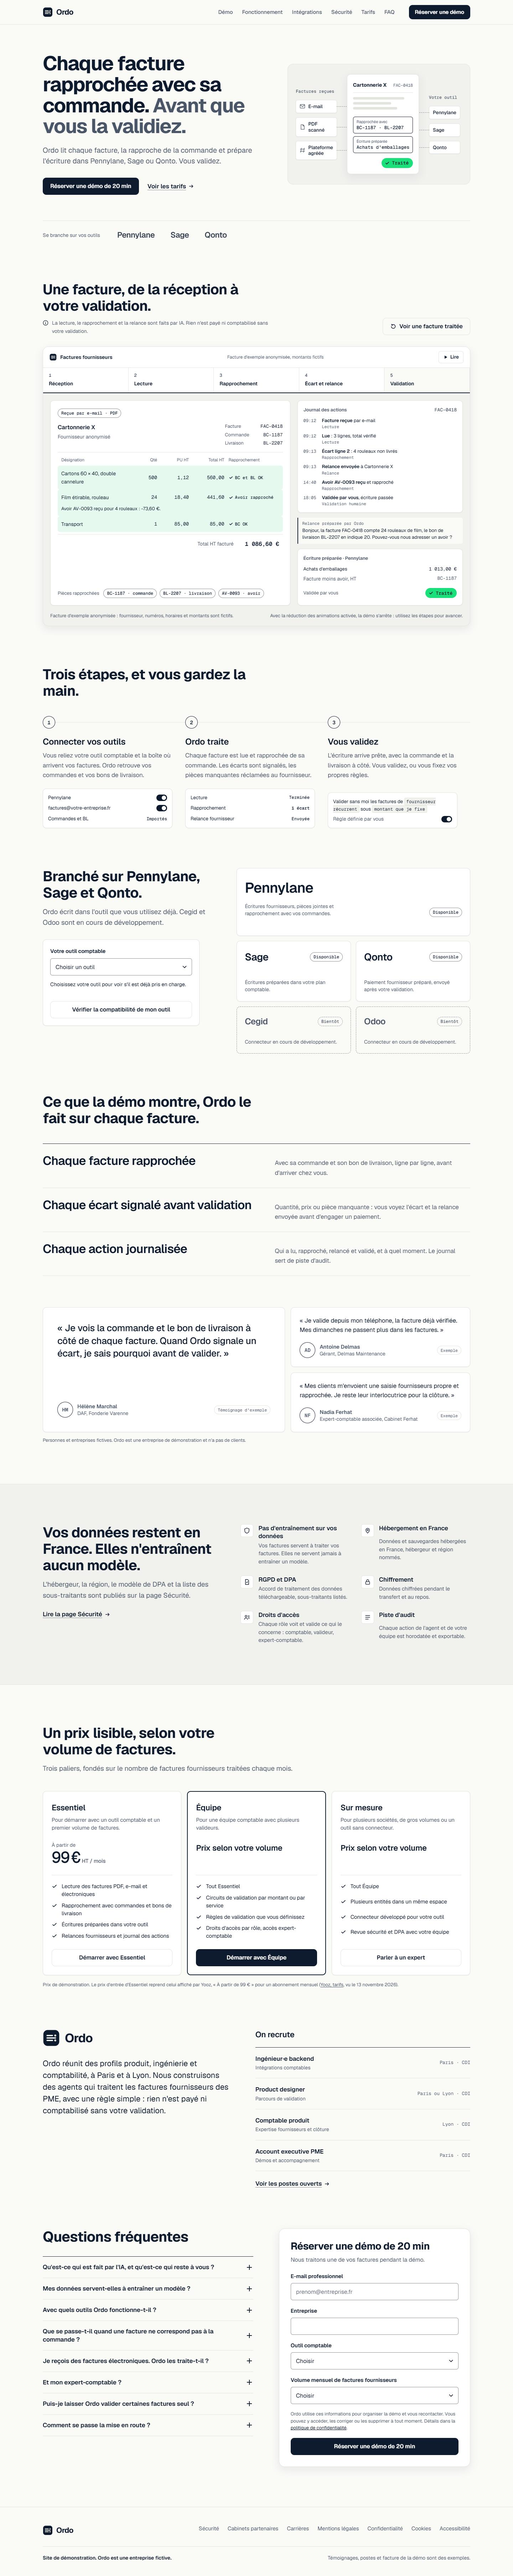
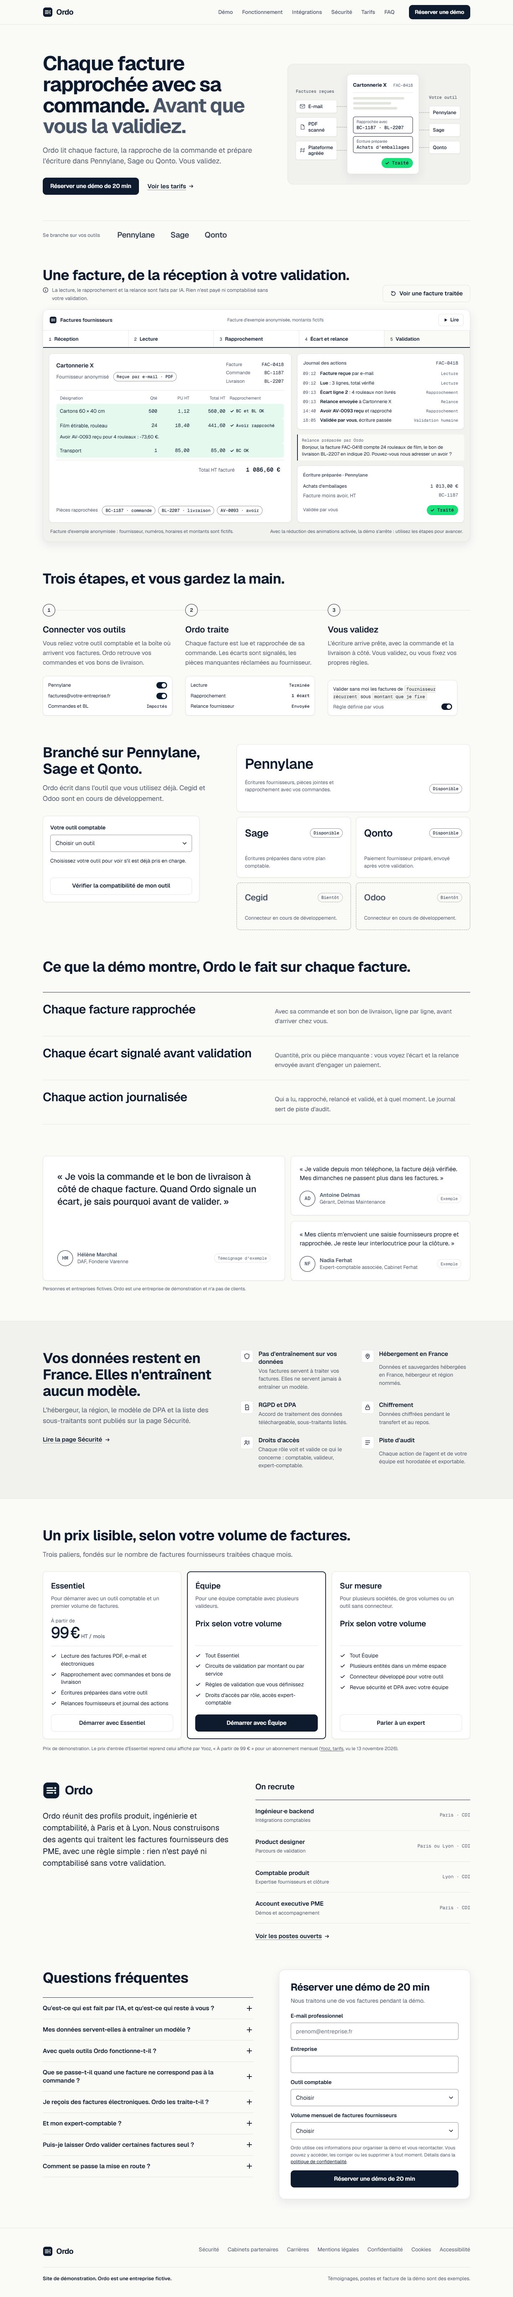
Fit each ia-b2b section in the viewport

diff --git a/vitrine-ia-b2b/index.html b/vitrine-ia-b2b/index.html
@@ -64,12 +64,12 @@
   --slow: 400ms;
 
   --gutter: clamp(16px, 4vw, 40px);
-  --section: clamp(64px, 8vw, 112px);
+  --section: clamp(56px, 6vw, 80px);
   --max: 1200px;
 }
 
 *, *::before, *::after { box-sizing: border-box; }
-html { -webkit-text-size-adjust: 100%; scroll-behavior: smooth; scroll-padding-top: 80px; }
+html { -webkit-text-size-adjust: 100%; scroll-behavior: smooth; scroll-padding-top: 69px; }
 body {
   margin: 0;
   background: var(--bg);
@@ -91,7 +91,7 @@ button, input, select { font: inherit; color: inherit; }
 .sr-only { position: absolute; width: 1px; height: 1px; padding: 0; margin: -1px; overflow: hidden; clip: rect(0 0 0 0); white-space: nowrap; border: 0; }
 .wrap { width: 100%; max-width: calc(var(--max) + 2 * var(--gutter)); margin: 0 auto; padding: 0 var(--gutter); }
 .section { padding: var(--section) 0; }
-.h2 { font-size: clamp(30px, 3.4vw, 40px); line-height: 1.15; font-weight: 650; letter-spacing: -0.02em; max-width: 22ch; }
+.h2 { font-size: clamp(30px, 3.4vw, 40px); line-height: 1.15; font-weight: 650; letter-spacing: -0.02em; max-width: 38ch; }
 .lead { font-size: clamp(17px, 1.4vw, 19px); color: var(--text-2); max-width: 60ch; margin-top: 16px; }
 .small { font-size: 14px; line-height: 1.45; color: var(--text-2); }
 .src { font-size: 13px; line-height: 1.45; color: var(--text-2); }
@@ -151,7 +151,7 @@ button, input, select { font: inherit; color: inherit; }
 .mobile-menu { display: none; }
 
 /* Hero */
-.hero { padding: clamp(40px, 6vw, 80px) 0 0; }
+.hero { padding: clamp(40px, 6vw, 80px) 0 24px; }
 .hero-grid { display: grid; grid-template-columns: minmax(0, 1.2fr) minmax(0, 1fr); gap: clamp(32px, 5vw, 72px); align-items: center; }
 .hero h1 { font-size: clamp(38px, 3.9vw, 56px); line-height: 1.05; font-weight: 700; letter-spacing: -0.035em; }
 .hero h1 span { color: var(--text-2); }
@@ -183,11 +183,11 @@ button, input, select { font: inherit; color: inherit; }
 .wordmark { font-size: 22px; font-weight: 600; letter-spacing: -0.02em; color: var(--ink); opacity: .82; }
 
 /* Demo */
-.demo-sec { padding-top: var(--section); }
-.demo-intro { display: grid; gap: 0; margin-bottom: 32px; }
+.demo-sec { padding-top: clamp(40px, 4vw, 48px); }
+.demo-intro { display: grid; gap: 0; margin-bottom: 20px; }
 .demo-top { display: flex; flex-wrap: wrap; align-items: end; justify-content: space-between; gap: 20px; }
 .demo-actions { display: flex; flex-wrap: wrap; gap: 10px; }
-.ai-note { margin-top: 14px; display: flex; gap: 10px; align-items: flex-start; font-size: 14px; color: var(--text-2); max-width: 70ch; }
+.ai-note { margin-top: 8px; display: flex; gap: 10px; align-items: flex-start; font-size: 14px; color: var(--text-2); max-width: 70ch; }
 .ai-note svg { width: 18px; height: 18px; margin-top: 2px; color: var(--ink); }
 
 .demo { background: var(--surface); border: 1px solid var(--line); border-radius: var(--r-lg); box-shadow: var(--sh-md); overflow: hidden; }
@@ -200,7 +200,7 @@ button, input, select { font: inherit; color: inherit; }
 .ctrl svg { width: 14px; height: 14px; }
 
 .steps-rail { display: grid; grid-template-columns: repeat(5, 1fr); border-bottom: 1px solid var(--line); background: var(--white); position: relative; }
-.steps-rail button { all: unset; box-sizing: border-box; cursor: pointer; padding: 12px 16px 14px; display: grid; gap: 2px; border-right: 1px solid var(--line); color: var(--text-2); transition: color var(--base) var(--ease), background-color var(--base) var(--ease); }
+.steps-rail button { all: unset; box-sizing: border-box; cursor: pointer; padding: 12px 16px; display: flex; align-items: baseline; gap: 8px; border-right: 1px solid var(--line); color: var(--text-2); transition: color var(--base) var(--ease), background-color var(--base) var(--ease); }
 .steps-rail button:last-child { border-right: 0; }
 .steps-rail button:focus-visible { outline: 2px solid var(--ink); outline-offset: -3px; }
 .steps-rail .n { font-family: var(--mono); font-size: 12px; }
@@ -210,9 +210,9 @@ button, input, select { font: inherit; color: inherit; }
 .progress { position: absolute; left: 0; right: 0; bottom: -1px; height: 2px; background: transparent; }
 .progress i { display: block; height: 100%; background: var(--ink); transform-origin: left; transform: scaleX(1); }
 
-.demo-body { display: grid; grid-template-columns: minmax(0, 1.45fr) minmax(0, 1fr); gap: 20px; padding: 20px; }
+.demo-body { display: grid; grid-template-columns: minmax(0, 1.45fr) minmax(0, 1fr); gap: 16px; padding: 16px; }
 .inv { background: var(--white); border: 1px solid var(--line); border-radius: var(--r-md); padding: 20px; box-shadow: var(--sh-sm); position: relative; display: flex; flex-direction: column; }
-.inv-docs { margin-top: auto; padding-top: 20px; display: flex; flex-wrap: wrap; align-items: center; gap: 8px; }
+.inv-docs { margin-top: auto; padding-top: 14px; display: flex; flex-wrap: wrap; align-items: center; gap: 8px; }
 .inv-docs > span:first-child { font-size: 13px; color: var(--text-2); margin-right: 4px; }
 .inv-docs .tag { opacity: 0; transition: opacity var(--slow) var(--ease); }
 .inv-docs .tag.on { opacity: 1; }
@@ -230,7 +230,7 @@ button, input, select { font: inherit; color: inherit; }
 .inv-cols, .inv-row { display: grid; grid-template-columns: minmax(0, 2fr) 0.5fr 0.75fr 0.85fr minmax(142px, 1.1fr); gap: 12px; align-items: center; }
 .inv-cols { font-size: 12px; color: var(--text-2); padding: 12px 10px 6px; }
 .inv-cols span:nth-child(n+2):nth-child(-n+4), .inv-row .num { text-align: right; }
-.inv-row { position: relative; padding: 11px 10px; font-size: 14px; border-radius: var(--r-sm); }
+.inv-row { position: relative; padding: 9px 10px; font-size: 14px; border-radius: var(--r-sm); }
 .inv-row .num { font-family: var(--mono); font-variant-numeric: tabular-nums; font-size: 13.5px; }
 .inv-row > *:not(.row-bg) { position: relative; z-index: 1; }
 .row-bg { position: absolute; inset: 0; border-radius: var(--r-sm); opacity: 0; transition: opacity var(--slow) var(--ease); z-index: 0; }
@@ -253,18 +253,18 @@ button, input, select { font: inherit; color: inherit; }
 .inv-total { display: flex; justify-content: flex-end; align-items: baseline; gap: 18px; padding: 14px 10px 0; margin-top: 6px; border-top: 1px solid var(--line); font-size: 14px; }
 .inv-total .cell { min-width: 110px; text-align: right; }
 .inv-total .v { font-family: var(--mono); font-weight: 600; font-size: 16px; font-variant-numeric: tabular-nums; }
-.inv-arrive { margin-bottom: 14px; }
+.who-sub { display: flex; flex-wrap: wrap; align-items: center; gap: 8px 12px; margin-top: 6px; }
 
 .side { display: flex; flex-direction: column; gap: 14px; min-width: 0; }
 .side .entry { margin-top: auto; }
 .panel { background: var(--white); border: 1px solid var(--line); border-radius: var(--r-md); padding: 16px; box-shadow: var(--sh-sm); }
 .panel h3 { font-size: 13px; font-weight: 600; color: var(--text-2); margin-bottom: 10px; display: flex; justify-content: space-between; gap: 8px; }
-.log { display: grid; gap: 9px; }
-.log li { display: grid; grid-template-columns: 44px 1fr; gap: 8px; font-size: 13px; line-height: 1.4; opacity: 0; transform: translateY(4px); transition: opacity var(--slow) var(--ease), transform var(--slow) var(--ease); }
+.log { display: grid; gap: 8px; }
+.log li { display: grid; grid-template-columns: 40px 1fr auto; gap: 8px; font-size: 13px; line-height: 1.4; opacity: 0; transform: translateY(4px); transition: opacity var(--slow) var(--ease), transform var(--slow) var(--ease); }
 .log li.on { opacity: 1; transform: none; }
 .log time { font-family: var(--mono); font-size: 12px; color: var(--text-2); padding-top: 1px; }
 .log b { font-weight: 600; }
-.log .agent { font-family: var(--mono); font-size: 11.5px; color: var(--text-2); display: block; }
+.log .agent { font-family: var(--mono); font-size: 11.5px; color: var(--text-2); padding-top: 1px; text-align: right; }
 .msg { border-left: 2px solid var(--ink); padding: 8px 12px; background: var(--bg); border-radius: 0 var(--r-sm) var(--r-sm) 0; font-size: 13px; line-height: 1.45; opacity: 0; transition: opacity var(--slow) var(--ease); }
 .msg.on { opacity: 1; }
 .msg small { display: block; font-family: var(--mono); font-size: 11.5px; color: var(--text-2); margin-bottom: 2px; }
@@ -351,18 +351,18 @@ button, input, select { font: inherit; color: inherit; }
 .sec-list p { font-size: 15px; color: var(--text-2); line-height: 1.5; }
 
 /* Pricing */
-.price-grid { margin-top: 48px; display: grid; grid-template-columns: repeat(3, minmax(0, 1fr)); gap: 16px; align-items: stretch; }
-.plan { background: var(--white); border: 1px solid var(--line); border-radius: var(--r-md); padding: 28px 24px 24px; display: grid; grid-template-rows: auto auto auto 1fr auto; gap: 0; box-shadow: var(--sh-sm); }
-.plan.featured { border: 2px solid var(--ink); padding: 27px 23px 23px; }
+.price-grid { margin-top: 32px; display: grid; grid-template-columns: repeat(3, minmax(0, 1fr)); gap: 16px; align-items: stretch; }
+.plan { background: var(--white); border: 1px solid var(--line); border-radius: var(--r-md); padding: 22px 22px 20px; display: grid; grid-template-rows: auto auto auto 1fr auto; gap: 0; box-shadow: var(--sh-sm); }
+.plan.featured { border: 2px solid var(--ink); padding: 21px 21px 19px; }
 .plan h3 { font-size: 22px; font-weight: 600; letter-spacing: -0.01em; }
 .plan .for { font-size: 15px; color: var(--text-2); margin-top: 6px; min-height: 48px; line-height: 1.45; }
-.price { margin-top: 22px; padding-bottom: 20px; border-bottom: 1px solid var(--line); min-height: 96px; }
+.price { margin-top: 14px; padding-bottom: 14px; border-bottom: 1px solid var(--line); min-height: 82px; }
 .price .from { font-size: 14px; color: var(--text-2); }
 .price .amt { font-family: var(--mono); font-variant-numeric: tabular-nums; font-size: clamp(36px, 3.4vw, 44px); font-weight: 500; line-height: 1.05; letter-spacing: -0.03em; }
 .price .amt .cur { margin-left: .12em; }
 .price .amt small { font-family: var(--sans); font-size: 15px; font-weight: 500; letter-spacing: 0; color: var(--text-2); margin-left: 4px; }
 .price .vol { font-size: 22px; font-weight: 600; line-height: 1.25; letter-spacing: -0.01em; padding-top: 6px; }
-.incl { display: grid; gap: 10px; padding: 20px 0 26px; font-size: 15px; line-height: 1.45; }
+.incl { display: grid; align-content: start; gap: 8px; padding: 16px 0 20px; font-size: 15px; line-height: 1.45; }
 .incl li { display: grid; grid-template-columns: 18px 1fr; gap: 10px; }
 .incl svg { width: 16px; height: 16px; margin-top: 3px; }
 .plan .btn { width: 100%; }
@@ -403,7 +403,7 @@ button, input, select { font: inherit; color: inherit; }
 .offer-note { margin-top: 12px; font-size: 14px; display: none; }
 .offer-note.on { display: block; }
 .offer-note strong { font-weight: 600; }
-form { margin-top: 22px; display: grid; gap: 18px; }
+form { margin-top: 18px; display: grid; gap: 14px; }
 .field { display: grid; gap: 7px; }
 .field label { font-weight: 600; font-size: 15px; }
 .field .hint { font-size: 13px; color: var(--text-2); margin-top: -3px; }
@@ -495,7 +495,7 @@ form .btn { width: 100%; }
   .wordmarks { gap: 10px 28px; }
   .demo-bar .ex { display: none; }
   .steps-rail { grid-template-columns: repeat(5, minmax(0, 1fr)); }
-  .steps-rail button { padding: 10px 6px 12px; text-align: center; justify-items: center; }
+  .steps-rail button { padding: 10px 6px 12px; text-align: center; justify-content: center; }
   .steps-rail .l { font-size: 0; }
   .steps-rail button[aria-current="step"] .l { font-size: 0; }
   .rail-label { display: block !important; }
@@ -676,11 +676,10 @@ form .btn { width: 100%; }
 
       <div class="demo-body">
         <article class="inv" aria-label="Facture FAC-0418">
-          <div class="inv-arrive"><span class="tag" data-at="0">Reçue par e-mail · PDF</span></div>
-          <div class="inv-head">
+                    <div class="inv-head">
             <div>
               <div class="cell" data-at="1500"><span class="sk" style="width:160px"></span><span class="v who">Cartonnerie X</span></div>
-              <div class="small" style="margin-top:4px">Fournisseur anonymisé</div>
+              <div class="who-sub"><span class="small">Fournisseur anonymisé</span><span class="tag" data-at="0">Reçue par e-mail · PDF</span></div>
             </div>
             <dl class="inv-meta">
               <dt>Facture</dt><dd><span class="cell" data-at="2200"><span class="sk" style="width:80px"></span><span class="v">FAC-0418</span></span></dd>
@@ -694,7 +693,7 @@ form .btn { width: 100%; }
           <div class="inv-row">
             <span class="row-bg read" data-at="3000" data-off="3700"></span>
             <span class="row-bg ok" data-at="7200"></span>
-            <span class="d cell" data-at="3000"><span class="sk"></span><span class="v">Cartons 60 × 40, double cannelure</span></span>
+            <span class="d cell" data-at="3000"><span class="sk"></span><span class="v">Cartons 60 × 40 cm</span></span>
             <span class="q num cell" data-at="3000"><span class="sk"></span><span class="v">500</span></span>
             <span class="q-m" style="display:none">500 × 1,12 €</span>
             <span class="pu num cell" data-at="3000"><span class="sk"></span><span class="v">1,12</span></span>
@@ -742,12 +741,12 @@ form .btn { width: 100%; }
           <section class="panel" aria-label="Journal des actions">
             <h3><span>Journal des actions</span><span class="mono" style="font-weight:500">FAC-0418</span></h3>
             <ol class="log">
-              <li data-at="300"><time>09:12</time><span><b>Facture reçue</b> par e-mail<span class="agent">Lecture</span></span></li>
-              <li data-at="5600"><time>09:12</time><span><b>Lue</b> : 3 lignes, total vérifié<span class="agent">Lecture</span></span></li>
-              <li data-at="9300"><time>09:13</time><span><b>Écart ligne 2</b> : 4 rouleaux non livrés<span class="agent">Rapprochement</span></span></li>
-              <li data-at="10500"><time>09:13</time><span><b>Relance envoyée</b> à Cartonnerie X<span class="agent">Relance</span></span></li>
-              <li data-at="13000"><time>14:40</time><span><b>Avoir AV-0093 reçu</b> et rapproché<span class="agent">Rapprochement</span></span></li>
-              <li data-at="17600"><time>18:05</time><span><b>Validée par vous</b>, écriture passée<span class="agent">Validation humaine</span></span></li>
+              <li data-at="300"><time>09:12</time><span><b>Facture reçue</b> par e-mail</span><span class="agent">Lecture</span></li>
+              <li data-at="5600"><time>09:12</time><span><b>Lue</b> : 3 lignes, total vérifié</span><span class="agent">Lecture</span></li>
+              <li data-at="9300"><time>09:13</time><span><b>Écart ligne 2</b> : 4 rouleaux non livrés</span><span class="agent">Rapprochement</span></li>
+              <li data-at="10500"><time>09:13</time><span><b>Relance envoyée</b> à Cartonnerie X</span><span class="agent">Relance</span></li>
+              <li data-at="13000"><time>14:40</time><span><b>Avoir AV-0093 reçu</b> et rapproché</span><span class="agent">Rapprochement</span></li>
+              <li data-at="17600"><time>18:05</time><span><b>Validée par vous</b>, écriture passée</span><span class="agent">Validation humaine</span></li>
             </ol>
           </section>
 
